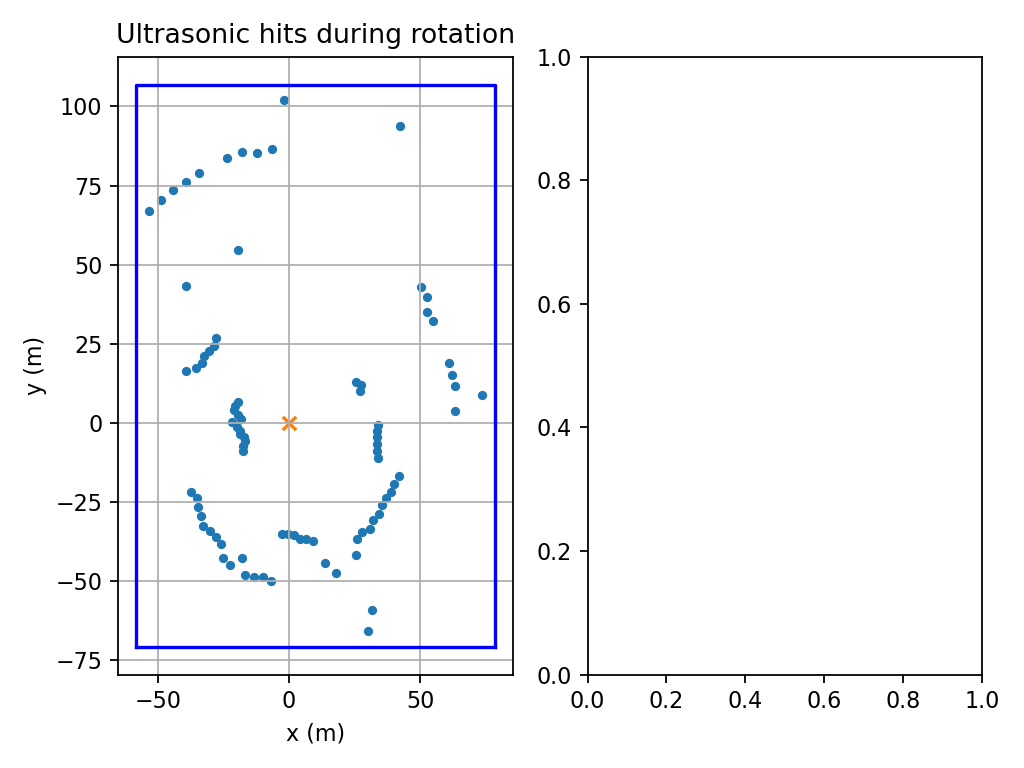
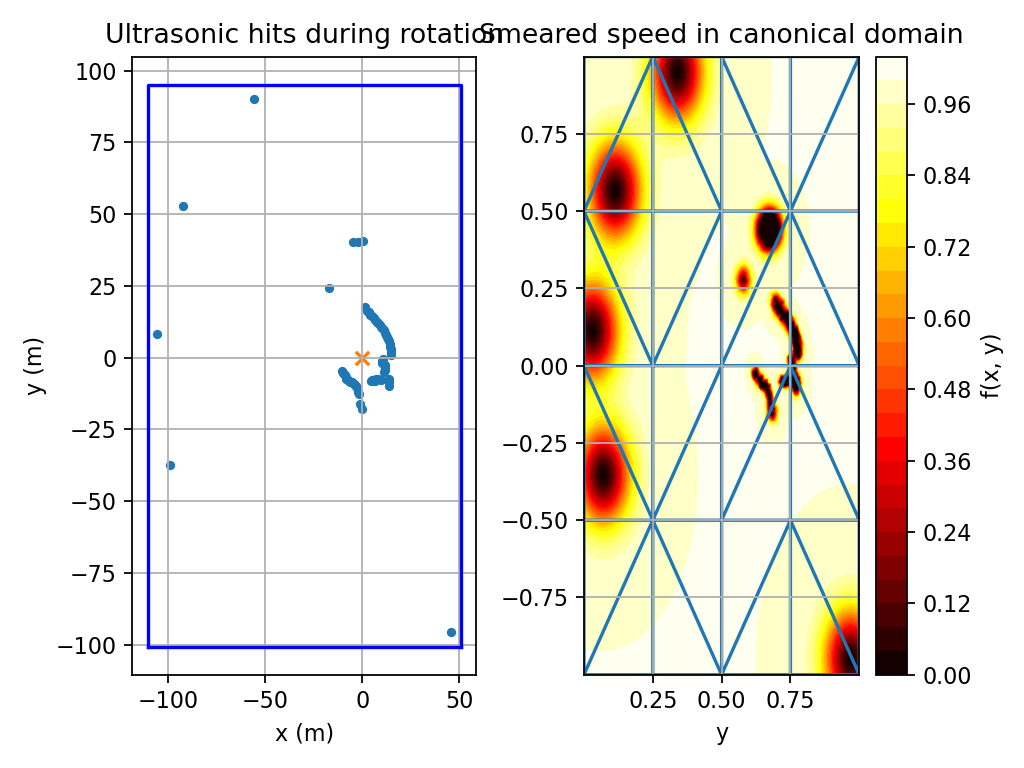
evaluating rho_splatter in local robot frame (keeps widths in terms of cm), and then viewing it over canonical frame quad points

diff --git a/python/rotate_scan.py b/python/rotate_scan.py
@@ -224,31 +224,6 @@ def affine_world_to_canonical_rect(rect_world_cm, robot_pose, eps=1e-9):
   b = A_local_to_can @ b_world_to_local + b_local_to_can
   return A, b, (x_min, x_max, y_min, y_max)
 
-def canonical_to_world_rect(grid_can, robot_pose, local_bounds):
-  """
-  Inverse map: canonical -> world for an arbitrary axis-aligned local rectangle.
-  Inputs:
-    grid_can: (M,2) with columns (u in [0,1], v in [-1,1])
-    robot_pose: (x0_cm, y0_cm, theta_rad)
-    local_bounds: (x_min, x_max, y_min, y_max) in *local* cm
-  Output:
-    grid_world: (M,2) world cm
-  """
-  x_min, x_max, y_min, y_max = local_bounds
-  Wx = x_max - x_min
-  Hy = y_max - y_min
-
-  u = grid_can[:, 0]
-  v = grid_can[:, 1]
-
-  # canonical -> local
-  x_loc = x_min + u * Wx
-  y_loc = y_min + 0.5 * (v + 1.0) * Hy
-  pts_local = np.column_stack([x_loc, y_loc])
-
-  # local -> world
-  return local_to_world(pts_local, robot_pose)
-
 def canonical_grid_and_triangulation(nu, nv=None):
   """
   Canonical domain grid: u in [0,1] with (nu+1) nodes,
@@ -315,6 +290,29 @@ def map_quad_grid(Rq, Sq, tris):
     YY[iTri*Nrs:Nrs*(iTri+1)] = XYe[:,1].reshape(Nrs,1)
   return XX, YY
 
+# gaussian splatter to model 
+def rho_splatter(grid_x, grid_y, hit_points, sensor_points, eps=0.99):
+  """
+  Evaluates the obstacle field ρ(x, y) from Gaussian splatter at hit points.
+
+  Parameters:
+    grid_x, grid_y : 2D meshgrid arrays (same shape) in world coordinates (cm)
+    hit_points     : list of (x, y) coordinates of sensor hits
+    sensor_points  : corresponding list of (x_s, y_s) sensor origins
+    eps            : peak amplitude of each Gaussian (default: 0.99)
+
+  Returns:
+    rho : 2D array with obstacle field values ρ(x, y) ∈ [0, 1]
+  """
+  rho = np.zeros_like(grid_x)
+  scale = 0.1
+  min_sigma = 0.02
+  for (xi, yi), (xs, ys) in zip(hit_points, sensor_points):
+    d = np.hypot(xi - xs, yi - ys)  # Euclidean distance (in cm)
+    sigma = min_sigma + scale * d
+    exponent = -((grid_x - xi)**2 + (grid_y - yi)**2) / (2 * sigma**2)
+    rho += eps * np.exp(exponent)
+  return np.clip(rho, 0, 1)
 
 def plot_points(points, png_path=OUT_PNG):
   import matplotlib
@@ -338,9 +336,9 @@ def plot_points(points, png_path=OUT_PNG):
   ])
   rect_world = local_to_world(rect_local, robot_pose)
   fig, ax = plt.subplots(1,2)
-  ax[0].plot(rect_world[:, 0], rect_world[:, 1], 'b-', label="Robot")
+  ax[0].plot(rect_world[:, 0], rect_world[:, 1], 'b-')
   ax[0].plot((rect_world[-1, 0], rect_world[0,0]),\
-           (rect_world[-1, 1], rect_world[0,1]), 'b-', label="Robot")
+           (rect_world[-1, 1], rect_world[0,1]), 'b-')
   ax[0].scatter(xs, ys, s=10)
   ax[0].scatter([0], [0], marker="x")  # robot origin
   ax[0].set_title("Ultrasonic hits during rotation")
@@ -348,6 +346,7 @@ def plot_points(points, png_path=OUT_PNG):
   ax[0].set_ylabel("y (m)")
   ax[0].grid(True)
 
+  
 
   A_w2c, b_w2c, local_bounds = affine_world_to_canonical_rect(rect_world, robot_pose)
   # Now any world point Pw maps as: [u,v]^T = A_w2c @ Pw + b_w2c 
@@ -356,12 +355,34 @@ def plot_points(points, png_path=OUT_PNG):
   grid_can, tris =  canonical_grid_and_triangulation(4)
   # quad points mapped to each triangle in sector
   XX, YY = map_quad_grid(Rq, Sq, tris)
-
-  ax[1].scatter(XX,YY,s=10)
+  # hit points as 2 x nhit in world
+  hit_ptsw = np.vstack((xs,ys))
+  # hit points mapped to canonical domain
+  hit_ptsc =  (A_w2c @ hit_ptsw + b_w2c[:,None]).T
+  # robot pos mapped to canonical domain
+  
+  x_min, x_max, y_min, y_max = local_bounds
+  Wx, Hy = x_max - x_min, y_max - y_min
+  hit_ptsl = np.column_stack([
+    x_min + hit_ptsc[:,0] * Wx,
+    y_min + 0.5 * (hit_ptsc[:,1] + 1.0) * Hy
+  ])
+  XX_local = x_min + XX * Wx
+  YY_local = y_min + 0.5 * (YY + 1.0) * Hy
+  n = hit_ptsl.shape[0]
+  sensor_points = np.repeat([[0.0,0.0]], n, axis=0) 
+  rho_vals = rho_splatter(XX_local, YY_local, hit_ptsl, sensor_points)
+  speed = 1 - rho_vals + 1e-6
+  #
+  ax[1].scatter(hit_ptsc[:,0], hit_ptsc[:,1], s=10)
+  ax[1].scatter(b_w2c[0], b_w2c[1], marker="x")
+  c = ax[1].tricontourf(XX.ravel(), YY.ravel(), speed.ravel(), levels=30, cmap='hot')
+  colorbar = fig.colorbar(c, ax=ax[1], label='f(x, y)')
+  ax[1].triplot(tris.points[:, 0], tris.points[:, 1], tris.simplices, label='Delaunay Triangulation') # Plot the triangles
   ax[1].grid(True)
-  ax[1].set_title("Quad points in canonical domain")
+  ax[1].set_title("Smeared speed in canonical domain")
   ax[1].set_xlabel("x")
-  ax[1].set_xlabel("y")
+  ax[1].set_ylabel("y")
   fig.tight_layout()
   fig.savefig(png_path, dpi=160)
 
